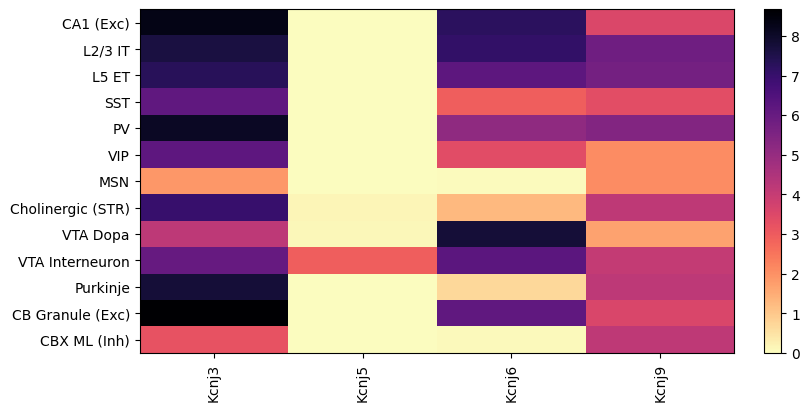
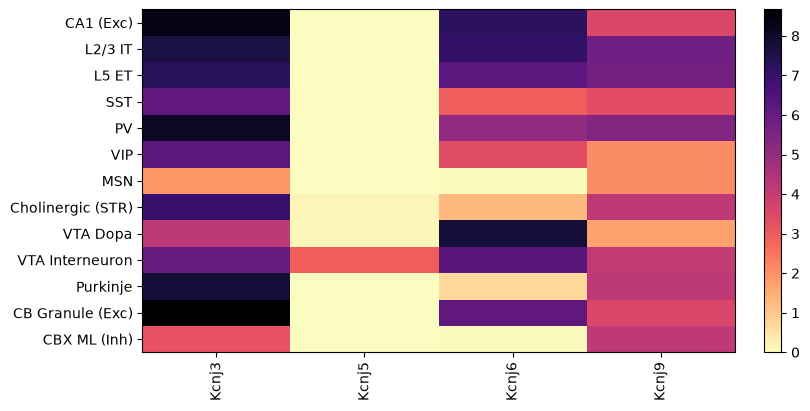
Updated ion channel chapter

diff --git a/nb/ion_channels.md b/nb/ion_channels.md
@@ -1,10 +1,14 @@
 # Ion channels
-This chapter will cover some of the major ion channels and how the effect neural function. Each section is not a comprehensive coverage of the channels but act more as a starting point. I will not cover structure of the channels unless is pertains to function. We cover ion channels because they are the only way which charge or current can go across the membrane. The membrane is practically impermeable to ions thus the neurons need a way for charge to distribute itself across the membrane. Ion channels are also resonsible for setting the resistance of a neuron. Simplistically, the number of opened and closed channels sets the membrane resistance. The distribution of types of ion channels and their functional properites in turn sets the functional properties of the neuron.
-Ion channels can come in three different types; voltage-gated, ligand-gated and persistantly open channels. Voltage-gated channels open and close dependent on voltage. Ligand-gated channels need need a ligand to bind to open the channel. Many channels' function can be modified by other factors such as cAMP or allosteric modulators. The ion channels expressed by a cell determine features such as spike shape, ability to burst, adaptation of spikes over long trains of spikes, pacemaking activity, and synaptic release [@beanActionPotentialMammalian2007]. One general feature of ion channels is they can have an outward or inward preference for current passage which is called rectification. Many ion channels will not conduct currents in both directions with equal magnitude. For example, this means we have different channels that are primarily responsible K+ going into the cell and out of the cell [@nisenbaumPotassiumCurrentsResponsible1995]. It is important to understand that ion channel regulates neuronal function through expression levels **AND** location of ion channel in a cell. HCN channels are probably one the most ubiquitously expressed ion channels but has very different function depending on the cell type due to location of the channel. Throughout this chapter I will use the [Allen Institute's Allen Brain Cell (ABC) Atlas](https://brain-map.org/bkp/explore/abc-atlas) to show how gene expression differs between a select number of neuronal subtypes in the mouse brain. Each channel type section will have a plot showing a heatmap of expression. I selected a set of notable cell types; pyramidal (hippocampus and cortical), cortical interneurons (SST, PV, and VIP), striatal neuron (MSN), spontaneously spiking neurons (Cholinergic (STR) and VTA Dopa), VTA interneuron (some spontaneously spike) and cerebellar neurons (Purkinje, Granule and molecular layer interneuron).
+This chapter will cover some of the major ion channels and how they effect neural function. Each section is not a comprehensive coverage of the channels but act more as a starting point. I will not cover structure of the channels unless is pertains to how it relateds to the function of the cell. We cover ion channels because they are the primary way which charge or current can go across the membrane. The membrane is practically impermeable to ions thus the neurons need a way for charge to distribute itself across the membrane. Ion channels are also resonsible for setting the resistance of a neuron. Simplistically, the number of opened and closed channels sets the membrane resistance. The distribution of types of ion channels and their functional properites in turn sets the functional properties of the neuron.
+Ion channels can come in three different types; voltage-gated, ligand-gated and persistantly open channels. Voltage-gated channels open and close dependent on voltage. Ligand-gated channels need need a ligand to bind to open the channel. Factors such as cAMP or allosteric modulators, can change ion channel function. The ion channels expressed by a cell determine features such as spike shape, ability to burst, adaptation of spikes over long trains of spikes, pacemaking activity, and synaptic release [@beanActionPotentialMammalian2007]. One general feature of ion channels is they can have an outward or inward preference for current passage which is called rectification. Many ion channels will not conduct currents in both directions with equal magnitude. For example, this means we have different channels that are primarily responsible K+ going into the cell and out of the cell [@nisenbaumPotassiumCurrentsResponsible1995]. It is important to understand that ion channel regulates neuronal function through expression levels **AND** location of ion channel in a cell. HCN channels are probably one the most ubiquitously expressed ion channels but has very different function depending on the cell type due to location of the channel. Throughout this chapter I will use the [Allen Institute's Allen Brain Cell (ABC) Atlas](https://brain-map.org/bkp/explore/abc-atlas) to show how gene expression differs between a select number of neuronal subtypes in the mouse brain. Each channel type section will have a plot showing a heatmap of expression. I selected a set of notable cell types; pyramidal (hippocampus and cortical), cortical interneurons (SST, PV, and VIP), striatal neuron (MSN), spontaneously spiking neurons (Cholinergic (STR) and VTA Dopa), VTA interneuron (some spontaneously spike) and cerebellar neurons (Purkinje, Granule and molecular layer interneuron).
 
 ## Sodium channels
 ### Voltage-gated sodium channels
-Voltage-gated sodium channels are generally needed for a cell to generate an action potential. Voltage-gated sodium channels consist of an alpha and beta subunit. The alpha subunit is the ion conduction portion of the channel. The beta subunit helps anchor the alpha subunit to the membrane and can also change the kinetics of the alpha subunit. There are several isoforms of the alpha subunit of these channels that have different activation, deactivation and deinactivation kinetics, and sensitivity to pH. Voltage-gated sodium channels are also sensitive to TTX. We use TTX in slice electrophysiology to stop activity dependent synaptic release or to determine how much current/resistance voltage-gated sodium channels are contributing to a cell at a specific voltage (usually just at rest).
+Voltage-gated sodium channels are generally needed for a cell to generate an action potential. Voltage-gated sodium channels consist of an alpha and beta subunit. The alpha subunit is the ion conduction portion of the channel. The beta subunit helps anchor the alpha subunit to the membrane and can also change the kinetics of the alpha subunit. There are several isoforms of the alpha subunit of these channels that have different activation, deactivation and deinactivation kinetics, and sensitivity to pH. Most Voltage-gated sodium channels are also sensitive to TTX except for Scn5a (Nav1.5), Scn10a (Nav1.8), and Scn11a (Nav1.9). We use TTX in slice electrophysiology to stop activity dependent synaptic release or to determine how much current/resistance voltage-gated sodium channels are contributing to a cell at a specific voltage (usually just at rest). In the central nervous system, Scn1a (Nav1.1), Scn2a (Nav1.2), and Scn8a (Nav1.6) are the primary voltage-gated sodium channels with some cells expressing Scn3a (Nav1.3) and Scn9a (Nav1.7) [@wangDistributionFunctionVoltagegated2017]. The main difference between ion channels is their primary location within the neuron. Scn1a is primarily located cell body and Scn8a is primarily located in the nodes of Ranvier during adulthood. Scn2a is the primary voltage-gated sodium channel in the nodes of Ranvier during development and is also expressed in the axon initial segment. Another difference in voltage-gated sodium channels is cell type differences in expression. Notably, PV interneurons express a large amount of Scn1a compared to other neurons which is probably related to their ability to fire at high rates. Scn9a (Nav1.7), Scn10a (Nav1.8), and Scn11a (Nav1.9) are primarily expressed in the peripheral nervous system. Scn10a is a unique voltage-gated sodium channel that is highly invovled in peripheral pain (#https://en.wikipedia.org/wiki/Nav1.8).
+```{image} ../data/gene_figures/na.png
+:alt: Voltage-gated sodium channel gene expression
+:align: center
+```
 
 ### NALCN
 NALCN is a persistantly open sodium channel.
@@ -13,9 +17,16 @@ NALCN is a persistantly open sodium channel.
 Potassium channels are the most diverse set of ion channels in the brain. The regulate the resting membrane potential, action potential threshold, and the afterhyperpolarization depending on the cell type.
 
 ### Inwardly rectifying (Kir)
-Inwardly rectifying potassium channels, also called Kir channels, conduct current *into* a cell when the cell is at more hyperpolarized voltages and conduct very little outward current. Kir channels are endogenously blocked at depolarized potentials by Mg++ and spermine [@hibinoInwardlyRectifyingPotassium2010]. As the cell membrane becames more negative Mg++ and spermine are pulled into the pore, similar to how Mg++ is pushed away from the outside of the membrane from NMDA receptors (this is related to a concept called surface charge). Interestingly as these channels get block it will also increase the membrane resistance. Celltypes, like MSNs in the striatum, that have a very hyperpolarized resting  potential of around -80 ot -90 mV express very high levels of Kir. The Kir channels are Kcnj1, Kcnj2, Kcnj3, Kcnj4, Kcnj5, Kcnj6, Kcnj8, Kcnj9, Kcnj10, Kcnj11, Kcnj12, Kcnj13, Kcnj14, Kcnj15, and Kcnj16.
+Inwardly rectifying potassium channels, also called Kir channels, conduct current *into* a cell when the cell is at more hyperpolarized voltages and conduct very little outward current. Kir channels are endogenously blocked at depolarized potentials by Mg++ and spermine [@hibinoInwardlyRectifyingPotassium2010]. As the cell membrane becames more negative Mg++ and spermine are pulled into the pore, similar to how Mg++ is pushed away from the outside of the membrane from NMDA receptors (this is related to a concept called surface charge). Interestingly as these channels get block it will also increase the membrane resistance. Celltypes, like MSNs in the striatum, that have a very hyperpolarized resting  potential of around -80 ot -90 mV express very high levels of Kir. The Kir channels are Kcnj1, Kcnj2, Kcnj4, Kcnj8, Kcnj10, Kcnj11, Kcnj12, Kcnj13, Kcnj14, Kcnj15, and Kcnj16.
 ```{image} ../data/gene_figures/kir.png
 :alt: Kir channel gene expression
+:align: center
+```
+
+### GIRK channels
+GIRK channels are G protein-coupled inwardly rectifying potassium channels. GIRK channels are opened when the &#946;&#947; G protien subunits interacts with the GIRK channel. GIRK channels are thought to be one of the primary ways that DREADDs change the excitability of the cell. The GIRK channels are Kcnj3, Kcnj6, Kcnj9 and Kcnj5.
+```{image} ../data/gene_figures/girk.png
+:alt: GIRK channel gene expression
 :align: center
 ```
 
@@ -26,12 +37,9 @@ SK channels as small conductance calcium-activated potassium channels. They are 
 :align: center
 ```
 ### BK channels
-BK channels are large conductance potassium channels. They contribute to the repolarization of the action potential and the fast after-hyperpolarization potentail [@sahChannelsUnderlyingNeuronal2002]. 
-
-### GIRK channels
-GIRK channels are G protein-coupled inwardly rectifying potassium channels. GIRK channels are opened when the &#946;&#947; G protien subunits interacts with the GIRK channel.
-```{image} ../data/gene_figures/girk.png
-:alt: GIRK channel gene expression
+BK channels are large conductance Ca++-activated and voltage-activated potassium channels. They contribute to the repolarization of the action potential, the fast after-hyperpolarization potential, synaptic release and membrane excitability [@sahChannelsUnderlyingNeuronal2002, @contetBKChannelsCentral2016]. BK channels a composed of a single pore-forming alpha subunit, Kcnma1. There are also $\beta$ and $\gamma$ subunits that determine the Ca++- and voltage-sensing properties, kinetics and function of the $\alpha$ subunit [@liModulationBKChannel2016]. The $\beta$ subunit are Kcnmb1, Kcnmb2, Kcnmb3, and Kcnmb4. The Kcnmb4 and Kcnmb2 are the primary subunits expressed in the CNS. Kcnmb1 and Kcnmb2 slow kinetics and increase Ca++ and voltage sensitivity [@liModulationBKChannel2016]. Kcnmb4 reduces Ca++ sensitivity in a dose depedent manner [@liModulationBKChannel2016]. The $\gamma$ subunits are Lrrc26 ($\gamma 1$), Lrrc52 ($\gamma 2$), Lrrc55 ($\gamma 3$) and Lrrc38 ($\gamma 4$). The $\gamma$ subunits seem to largely drive activation towards hyperpolarizing voltages [@liModulationBKChannel2016].
+```{image} ../data/gene_figures/BK_channel.png
+:alt: BK channel and subunit gene expression
 :align: center
 ```
 
